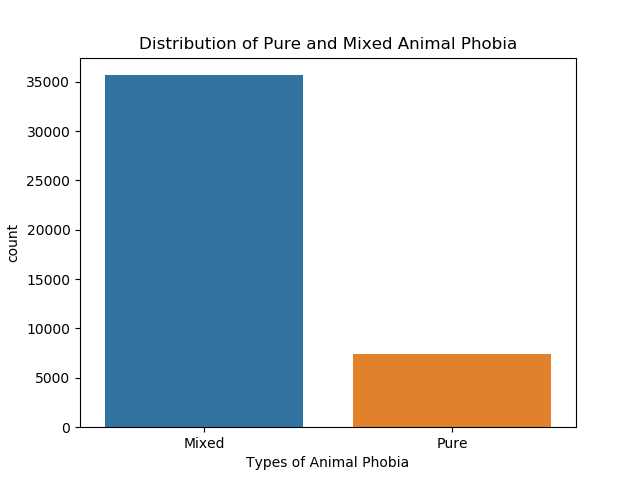
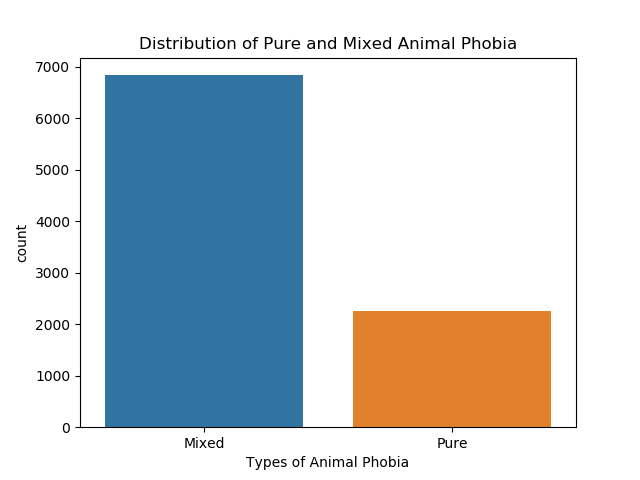
assignment4

diff --git a/dai1_dmv/assignment4.py b/dai1_dmv/assignment4.py
@@ -15,6 +15,28 @@ from global_vars import *
 from reference import *
 
 
+def sort_health(row):
+    '''
+    Recoding values for perceived health
+    :param row: row of a dataset
+    :return: code value (int)
+    '''
+    good = [1, 2, 3, 4]
+    if row[HEALTH_MAP[CODE]] in good:
+        return 1
+    else:
+        return 0
+
+
+def assign_region(row):
+    '''
+    Recoding values for origins to group them by region
+    :param row: row of a dataset
+    :return: value (region name, str)
+    '''
+    return REGIONS[row[ORIGIN_MAP[CODE]]]
+
+
 def main():
     '''
     This function contains the main flow of the process of operating the data
@@ -50,47 +72,118 @@ def main():
     print(pd.concat(dict(Frequencies=appuremixed_freq.rename({1: 'Pure', 0: 'Mixed'}),
                          Percentages=appuremixed_percent.rename({1: 'Pure', 0: 'Mixed'})), axis=1))
 
+    ### VISUALIZATIONS
+
+    ## UNIVARIATE
+
     # Univariate 1: Plotting APPUREMIXED variable
 
     # Read APPUREMIXED data as categorical
-    # data[APPUREMIXED] = data[APPUREMIXED].astype('category')
-    # data[APPUREMIXED] = data[APPUREMIXED].cat.rename_categories(['Mixed', 'Pure'])
-    # seaborn.countplot(x=APPUREMIXED, data=data)
+    condition_ap = data[ANIMALS_MAP[CODE]] == 1
+    subset_ap = data[condition_ap].copy()  # Make a subset of those with animal phobia
+    subset_ap[APPUREMIXED] = subset_ap[APPUREMIXED].astype('category')
+    subset_ap[APPUREMIXED] = subset_ap[APPUREMIXED].cat.rename_categories(['Mixed', 'Pure'])
+    # seaborn.countplot(x=APPUREMIXED, data=subset_ap)
     # plt.xlabel('Types of Animal Phobia')
     # plt.title ('Distribution of Pure and Mixed Animal Phobia')
     # plt.show()
 
+    # Univariate 1.1: Plotting original animal phobia variable
 
-    # Univariate 1: Plotting ORIGINS variable
+    # Read animal phobia data as categorical
+    data[ANIMALS_MAP[CODE]] = data[ANIMALS_MAP[CODE]].replace(9, np.nan)
+    data[ANIMALS_MAP[CODE]] = data[ANIMALS_MAP[CODE]].astype('category')
+    data[ANIMALS_MAP[CODE]] = data[ANIMALS_MAP[CODE]].cat.rename_categories(ANIMALS_MAP[VALUES])
+    # seaborn.countplot(x=ANIMALS_MAP[CODE], data=data)
+    # plt.xlabel('Ever had fear/avoidance of insects, snakes, birds, other animals')
+    # plt.title ('Distribution of Animal Phobia Cases')
+    # plt.show()
 
-    # origins = data[ORIGIN_MAP[CODE]].value_counts(sort=False, dropna=False)
-    # print(origins.rename(ORIGIN_MAP[VALUES]))
+    # Univariate 2: Plotting ORIGINS variable
 
     # Create subset for the 20 origins that have more than 400 occurrences (calculated in Assignment 3)
     condition_origin = data[ORIGIN_MAP[CODE]].isin(REGIONS)
     subset_origin = data[condition_origin].copy()
 
-    # Create a column with regions (as 'bins')
-    def assign_region(row):
-        return REGIONS[row[ORIGIN_MAP[CODE]]]
-
+    # Add a new column with regions based on origin values
     subset_origin['REGION'] = subset_origin.apply(lambda row: assign_region(row), axis=1)
-    seaborn.countplot(subset_origin['REGION'])
+    # seaborn.countplot(subset_origin['REGION'])
+    # plt.xlabel('Regions of Origin')
+    # plt.xticks(rotation=20)
+    # plt.title('Distribution by Regions of Origin')
+    # plt.tight_layout()
+    # plt.show()
+
+    # Univariate 3: Plotting PERCEIVED HEALTH variable
+
+    data[HEALTH_MAP[CODE]] = data[HEALTH_MAP[CODE]].astype('category')
+    data[HEALTH_MAP[CODE]] = data[HEALTH_MAP[CODE]].cat.rename_categories(HEALTH_VALUES)
+    # seaborn.countplot(data[HEALTH_MAP[CODE]])
+    # plt.xlabel('Self-Preceived Current Health')
+    # plt.title('Distribution by Health Perception')
+    # plt.show()
+
+
+    ## BIVARIATE
+
+    # Bivariate 1 - Health
+    # If a person with animal phobia perceives their health as good, is it reasonable to expect that their AP is pure?
+
+    # group health categories into two
+    subset_ap['HEALTHBINARY'] = subset_ap.apply(lambda row: sort_health(row), axis=1)
+    # seaborn.catplot(x=APPUREMIXED, y='HEALTHBINARY', kind='bar', ci=None, data=subset_ap)
+    # plt.xlabel('Type of Animal Phobia')
+    # plt.ylabel('Proportion of Good Perceived Health')
+    # plt.title('Perceived Health -> Type of AP')
+    # plt.xticks(rotation=20)
+    # plt.tight_layout()
+    # plt.show()
+
+
+    # Bivariate 2 - Region vs. Health Perception
+    # Create a column with regions (as 'bins')
+    # Is there any association between region and health perception? SPOILER: NO
+    subset_origin['HEALTHBINARY'] = subset_ap.apply(lambda row: sort_health(row), axis=1)
+    # seaborn.catplot(x='REGION', y='HEALTHBINARY', kind='bar', ci=None, data=subset_origin)
+    # plt.xlabel('Region of Origin')
+    # plt.ylabel('Proportion of Good Perceived Health')
+    # plt.title('Region of Origin -> Perceived Health')
+    # plt.xticks(rotation=20)
+    # plt.tight_layout()
+    # plt.show()
+
+
+    # Bivariate 3: region -> AP (general)
+    subset_origin[ANIMALS_MAP[CODE]] = subset_origin[ANIMALS_MAP[CODE]].replace(9, np.nan)
+    subset_origin[ANIMALS_MAP[CODE]] = subset_origin[ANIMALS_MAP[CODE]].replace(2, 0)
+    subset_origin[ANIMALS_MAP[CODE]] = subset_origin[ANIMALS_MAP[CODE]].astype('category')
+    print(subset_origin[ANIMALS_MAP[CODE]].describe())
+    subset_origin[ANIMALS_MAP[CODE]] = pd.to_numeric(subset_origin[ANIMALS_MAP[CODE]], errors='coerce')
+    seaborn.catplot(x='REGION', y=ANIMALS_MAP[CODE], kind='bar', ci=None, data=subset_origin)
     plt.xlabel('Regions of Origin')
+    plt.ylabel('Proportion of Animal Phobia')
+    plt.title('Animal Phobia vs. Region of Origin')
     plt.xticks(rotation=20)
-    plt.title('Distribution by Regions of Origin')
     plt.show()
 
 
-
-    # has_ap = data[ANIMALS_MAP[CODE]] == 1
-    # has_pure_ap = data[APPUREMIXED] == 1
-
-
-
+    # Bivariate 4: region -> pure AP
+    condition_ap_for_origin = subset_origin[ANIMALS_MAP[CODE]] == 1
+    subset_origin_ap = subset_origin[condition_ap_for_origin].copy()
+    subset_origin_ap[APPUREMIXED] = pd.to_numeric(subset_origin_ap[APPUREMIXED], errors='coerce')
+    # seaborn.catplot(x='REGION', y=APPUREMIXED, kind='bar', ci=None, data=subset_origin_ap)
+    # plt.xlabel('Regions of Origin')
+    # plt.ylabel('Proportion of Pure Animal Phobia')
+    # plt.title('Pure Animal Phobia vs. Region of Origin')
+    # plt.xticks(rotation=20)
+    # plt.show()
 
 
 def distribute_origins_by_regions():
+    '''
+    Using a hand-made dictionary REGIONS_ORIGINS ({origin_name: region_name}), and ORIGINS_VALUES mapper,
+    create a new dictionary {origin_category_code: region_name}
+    '''
     result = dict()
     for entry in REGIONS_ORIGINS:
         for code in ORIGINS_VALUES:

diff --git a/dai1_dmv/week4.py b/dai1_dmv/week4.py
@@ -73,9 +73,9 @@ def main():
     # c1 = sub2.groupby('NUMCIGMO_EST').size()
     # print(c1)
     #
-    # print('describe nicotine dependence')
-    # desc2 = sub2['TAB12MDX'].describe()
-    # print(desc2)
+    print('describe nicotine dependence')
+    desc2 = sub2['TAB12MDX'].describe()
+    print(desc2)
 
     # c1 = sub2.groupby('TAB12MDX').size()
     # print(c1)
@@ -144,10 +144,10 @@ def main():
     # bivariate bar graph C->Q
     # seaborn.factorplot(x="PACKCATEGORY", y="TAB12MDX", data=sub2, kind="bar", ci=None)
     # factorplot is now renamed -> catplot
-    # seaborn.catplot(x="PACKCATEGORY", y="TAB12MDX", data=sub2, kind="bar", ci=None)
-    # plt.xlabel('Packs per Month')
-    # plt.ylabel('Proportion Nicotine Dependent')
-    # plt.show()
+    seaborn.catplot(x="PACKCATEGORY", y="TAB12MDX", data=sub2, kind="bar", ci=None)
+    plt.xlabel('Packs per Month')
+    plt.ylabel('Proportion Nicotine Dependent')
+    plt.show()
 
     # creating 3 level smokegroup variable
     def SMOKEGRP(row):
@@ -235,23 +235,23 @@ def gapminder_part():
     # plt.show()
 
     # quartile split (use qcut function & ask for 4 groups - gives you quartile split)
-    print('Income per person - 4 categories - quartiles')
-    data['INCOMEGRP4'] = pd.qcut(data.incomeperperson, 4,
-                                     labels=["1=25th%tile", "2=50%tile", "3=75%tile", "4=100%tile"])
-    c10 = data['INCOMEGRP4'].value_counts(sort=False, dropna=True)
-    print(c10)
+    # print('Income per person - 4 categories - quartiles')
+    # data['INCOMEGRP4'] = pd.qcut(data.incomeperperson, 4,
+    #                                  labels=["1=25th%tile", "2=50%tile", "3=75%tile", "4=100%tile"])
+    # c10 = data['INCOMEGRP4'].value_counts(sort=False, dropna=True)
+    # print(c10)
 
     # bivariate bar graph C->Q
-    seaborn.catplot(x='INCOMEGRP4', y='hivrate', data=data, kind="bar", ci=None)
-    plt.xlabel('income group')
-    plt.ylabel('mean HIV rate')
-    plt.show()
-
-    c11 = data.groupby('INCOMEGRP4').size()
-    print(c11)
-
-    result = data.sort(['INCOMEGRP4'], ascending=[1])
-    print(result)
+    # seaborn.catplot(x='INCOMEGRP4', y='hivrate', data=data, kind="bar", ci=None)
+    # plt.xlabel('income group')
+    # plt.ylabel('mean HIV rate')
+    # plt.show()
+    #
+    # c11 = data.groupby('INCOMEGRP4').size()
+    # print(c11)
+    #
+    # result = data.sort(['INCOMEGRP4'], ascending=[1])
+    # print(result)
 
 
 def test_plotting():
@@ -265,8 +265,8 @@ def test_plotting():
 
 if __name__ == '__main__':
     start = time.time()
-    # main()
+    main()
     # test_plotting()
-    gapminder_part()
+    # gapminder_part()
     stop = time.time()
     print('Running time: {}'.format(stop - start))
